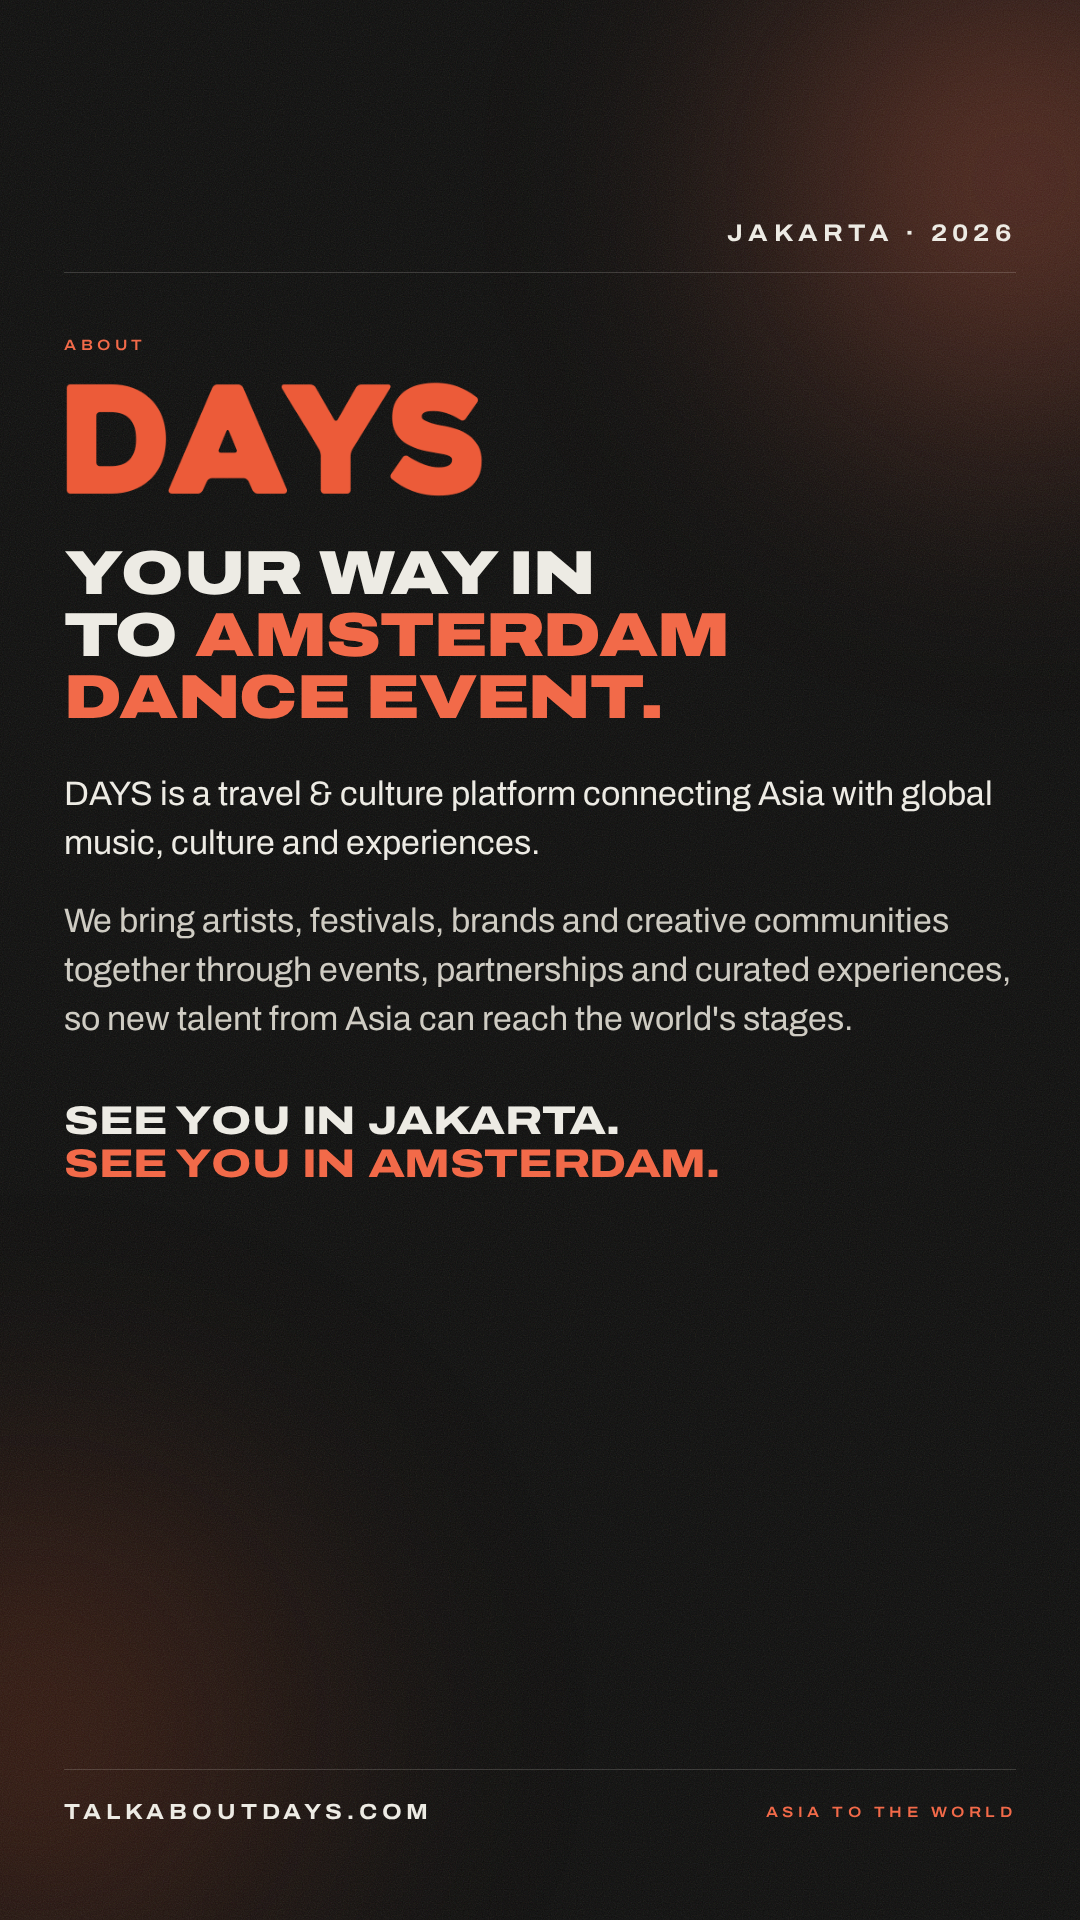
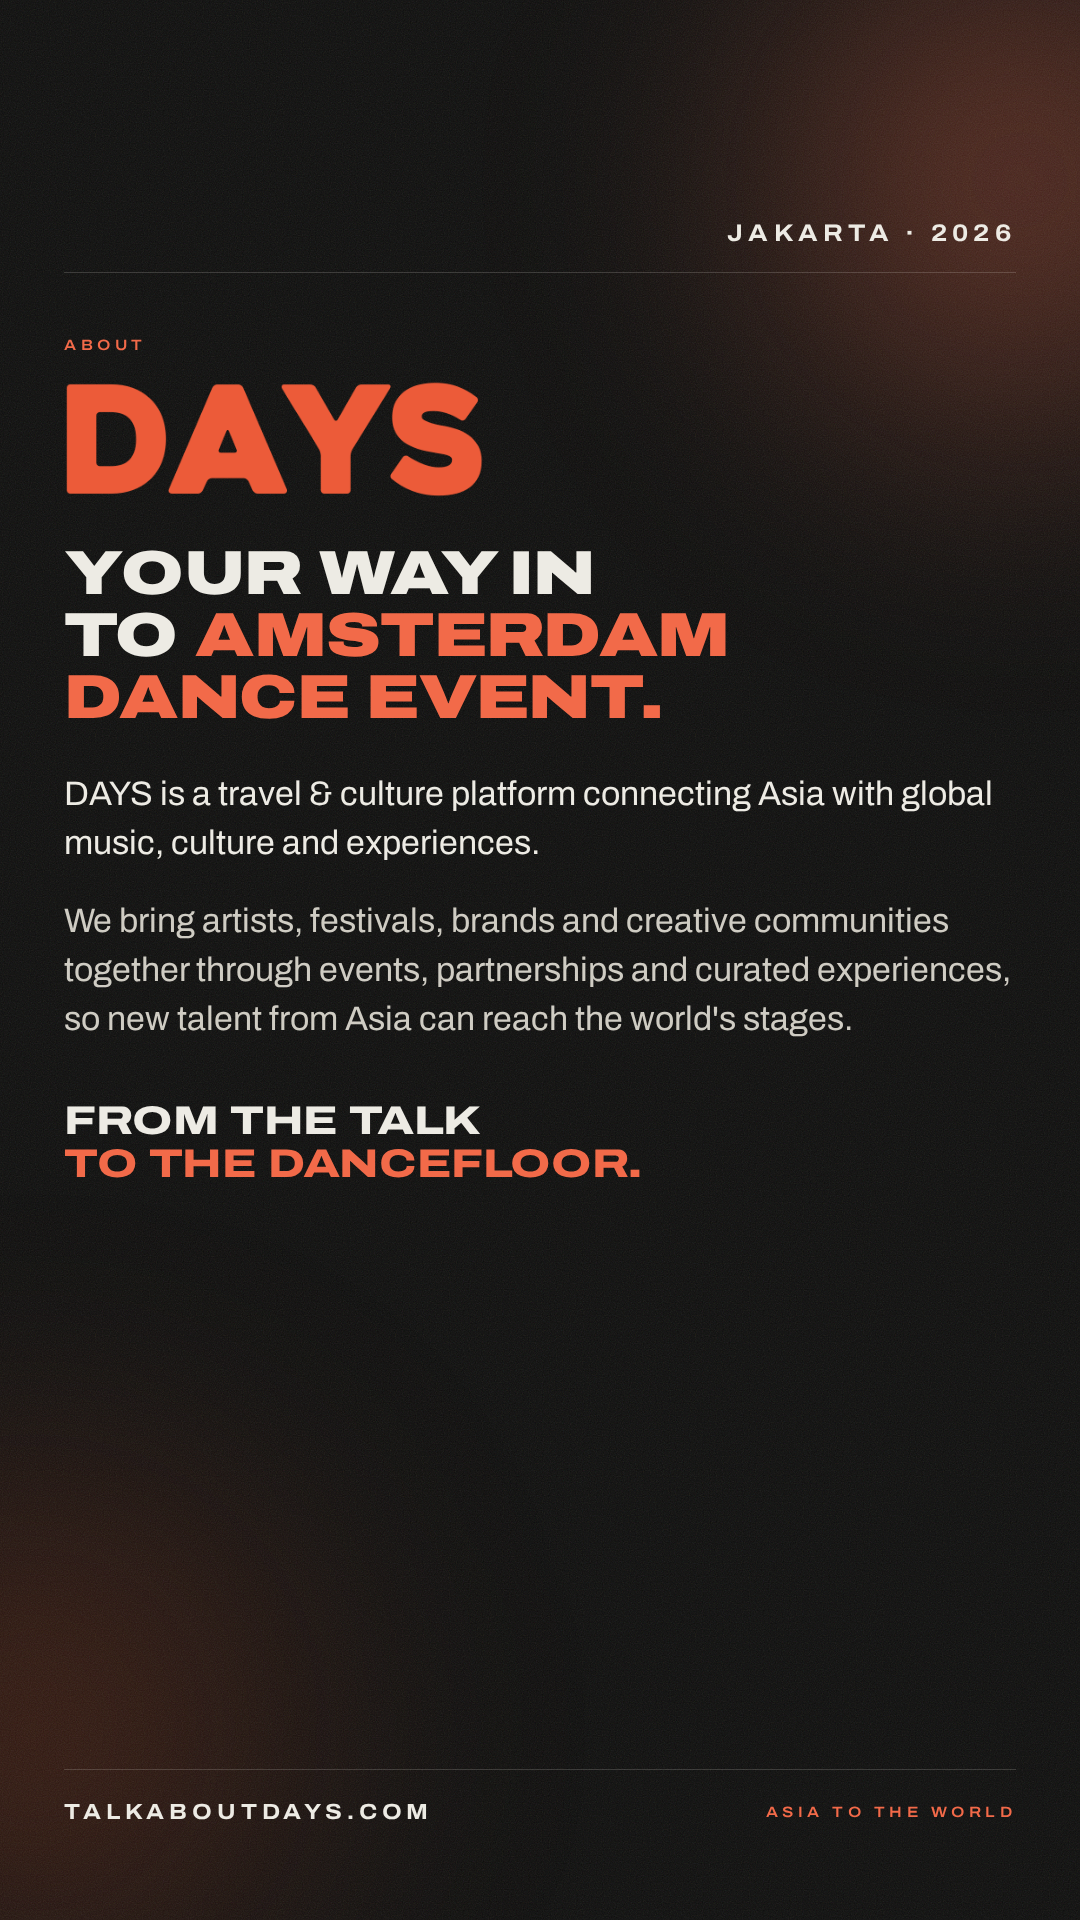
ADE DAYS page: new closing line
Claude-Session: https://claude.ai/code/session_01Sc5gF2HRFqjLpMQDrx7aqZ

Changed region(s): [[0.0611, 0.5625, 0.6722, 0.625]]

diff --git a/events/ade-community-talks-2026/04-days.html b/events/ade-community-talks-2026/04-days.html
@@ -19,7 +19,7 @@
   <div class="body" style="margin-top:40px">DAYS is a travel &amp; culture platform connecting Asia with global music, culture and experiences.</div>
   <div class="body" style="margin-top:28px;color:var(--soft)">We bring artists, festivals, brands and creative communities together through events, partnerships and curated experiences, so new talent from Asia can reach the world's stages.</div>
 
-  <div class="display" style="font-size:40px;font-weight:800;margin-top:56px">See you in Jakarta.<br><em>See you in Amsterdam.</em></div>
+  <div class="display" style="font-size:40px;font-weight:800;margin-top:56px">From the talk<br><em>to the dancefloor.</em></div>
 
   <div class="row" style="position:absolute;left:64px;right:64px;bottom:96px;padding-top:30px;border-top:1px solid var(--line)">
     <div class="label head" style="font-size:22px">talkaboutdays.com</div>
